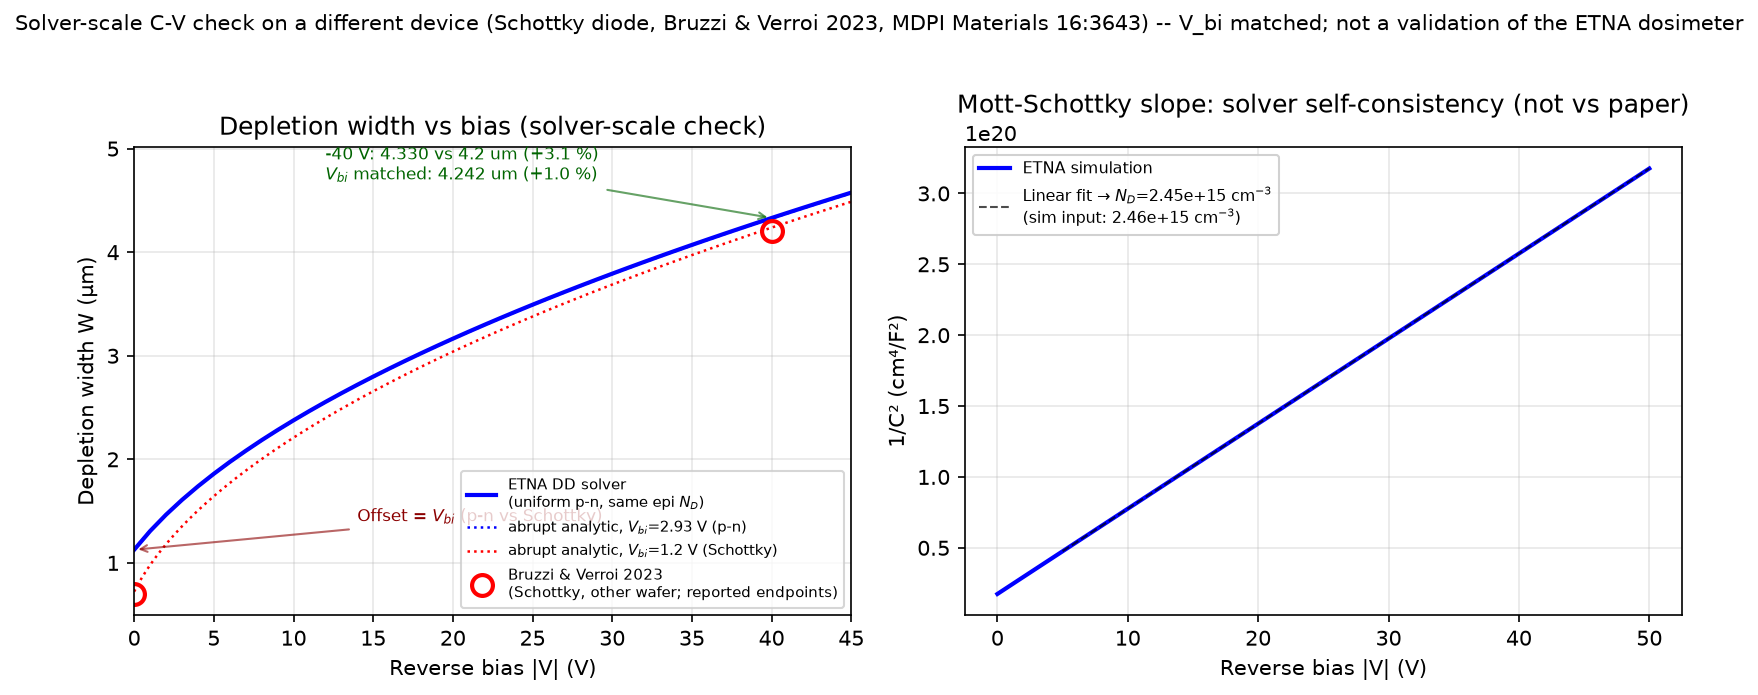
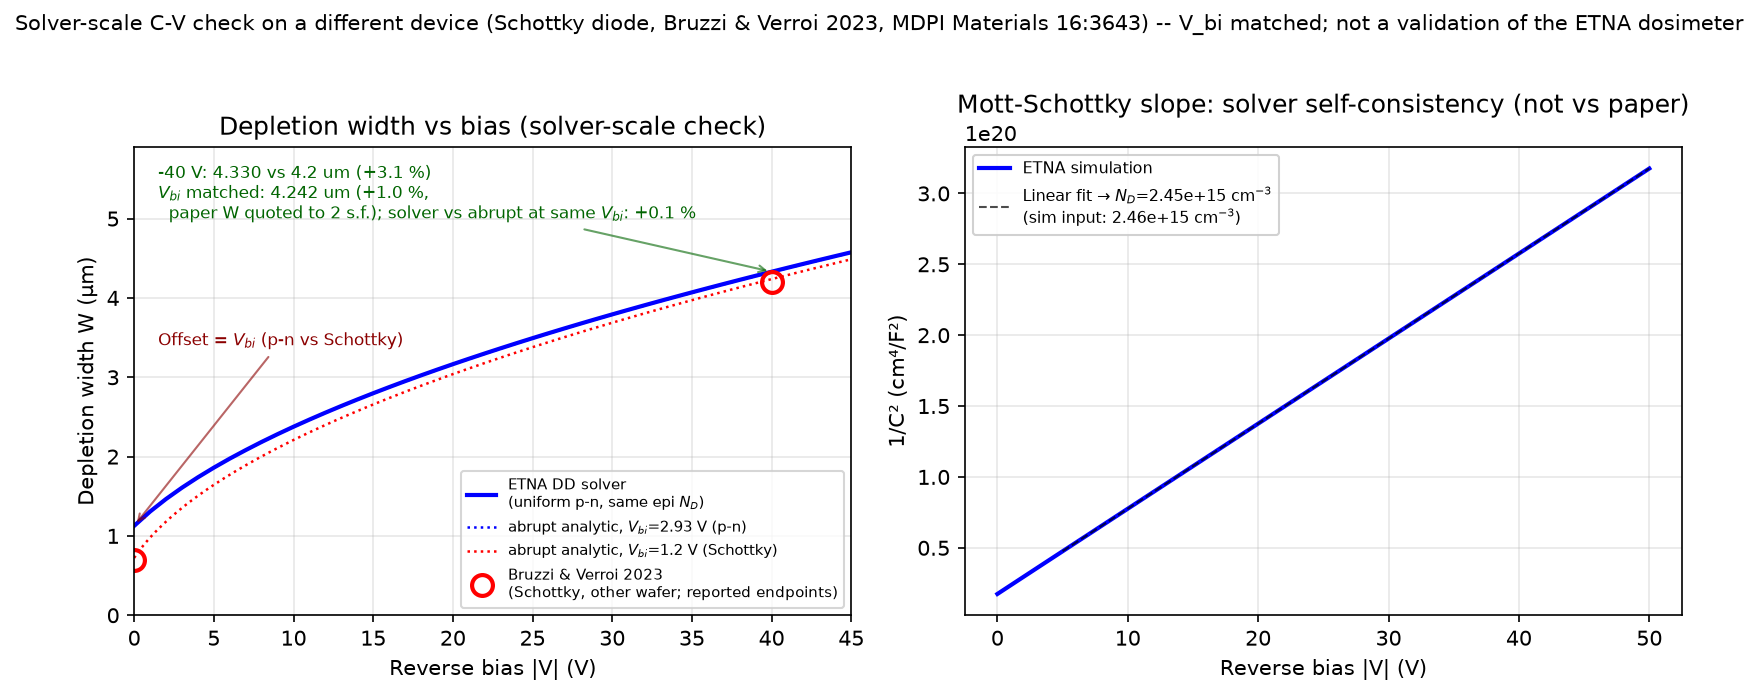
fix(figures): Bruzzi figure quotes solver vs abrupt analytic at the same V_bi (+0.1 %)
The V_bi-matched read-out against the paper is +1.0 % (4.242 vs 4.2 um, paper W
quoted to 2 s.f.); the solver-scale number proper is solver vs its own abrupt
analytic at the same V_bi: 4.330 vs 4.326 um, +0.11 %. Layout: annotations no
longer overlap the legend/axes.

diff --git a/scripts/validation/cv_vs_bruzzi2023.py b/scripts/validation/cv_vs_bruzzi2023.py
@@ -56,6 +56,8 @@ V_R_matched = 40.0 + V_BI_SCHOTTKY - V_bi_pn
 order = np.argsort(V_reverse)
 W_matched = float(np.interp(V_R_matched, V_reverse[order], W_um[order]))
 W_at_40 = float(W_um[np.argmin(np.abs(result.x - (-40.0)))])
+# solver vs its own abrupt analytic at the same V_bi: the solver-scale number proper
+solver_vs_abrupt = 100 * (W_at_40 / w_abrupt_um(40.0, V_bi_pn) - 1)
 
 fig, axes = plt.subplots(1, 2, figsize=(11, 4.5))
 
@@ -91,22 +93,24 @@ ax.plot(
 ax.set_xlabel("Reverse bias |V| (V)")
 ax.set_ylabel("Depletion width W (µm)")
 ax.set_xlim(0, 45)
+ax.set_ylim(0, 5.9)
 ax.set_title("Depletion width vs bias (solver-scale check)")
 ax.legend(fontsize=7, loc="lower right")
 ax.grid(alpha=0.3)
 ax.annotate(
     "Offset = $V_{bi}$ (p-n vs Schottky)",
     xy=(0, W_um[np.argmin(np.abs(result.x))]),
-    xytext=(14, 1.4),
+    xytext=(1.5, 3.4),
     fontsize=8,
     color="darkred",
     arrowprops=dict(arrowstyle="->", color="darkred", alpha=0.6),
 )
 ax.annotate(
     f"-40 V: {W_at_40:.3f} vs 4.2 um ({100 * (W_at_40 / 4.2 - 1):+.1f} %)\n"
-    f"$V_{{bi}}$ matched: {W_matched:.3f} um ({100 * (W_matched / 4.2 - 1):+.1f} %)",
+    f"$V_{{bi}}$ matched: {W_matched:.3f} um ({100 * (W_matched / 4.2 - 1):+.1f} %,\n"
+    f"  paper W quoted to 2 s.f.); solver vs abrupt at same $V_{{bi}}$: {solver_vs_abrupt:+.1f} %",
     xy=(40, W_at_40),
-    xytext=(12, 4.7),
+    xytext=(1.5, 5.0),
     fontsize=8,
     color="darkgreen",
     arrowprops=dict(arrowstyle="->", color="darkgreen", alpha=0.6),
@@ -147,8 +151,9 @@ print(
 print(f"W(-40V) sim={W_at_40:.3f} um, paper endpoint=4.2 um ({100 * (W_at_40 / 4.2 - 1):+.1f} %)")
 print(
     f"V_bi(p-n, 1/C^2 intercept)={V_bi_pn:.2f} V; V_bi-matched W(V_R={V_R_matched:.2f} V)"
-    f"={W_matched:.3f} um ({100 * (W_matched / 4.2 - 1):+.1f} %)"
+    f"={W_matched:.3f} um ({100 * (W_matched / 4.2 - 1):+.1f} %; paper W quoted to 2 s.f.)"
 )
+print(f"solver vs abrupt analytic at the same V_bi, -40 V: {solver_vs_abrupt:+.2f} %")
 print(
     f"abrupt analytic W(40 V): V_bi={V_BI_SCHOTTKY} V -> {w_abrupt_um(40.0, V_BI_SCHOTTKY):.3f} um,"
     f" V_bi={V_bi_pn:.2f} V -> {w_abrupt_um(40.0, V_bi_pn):.3f} um"
